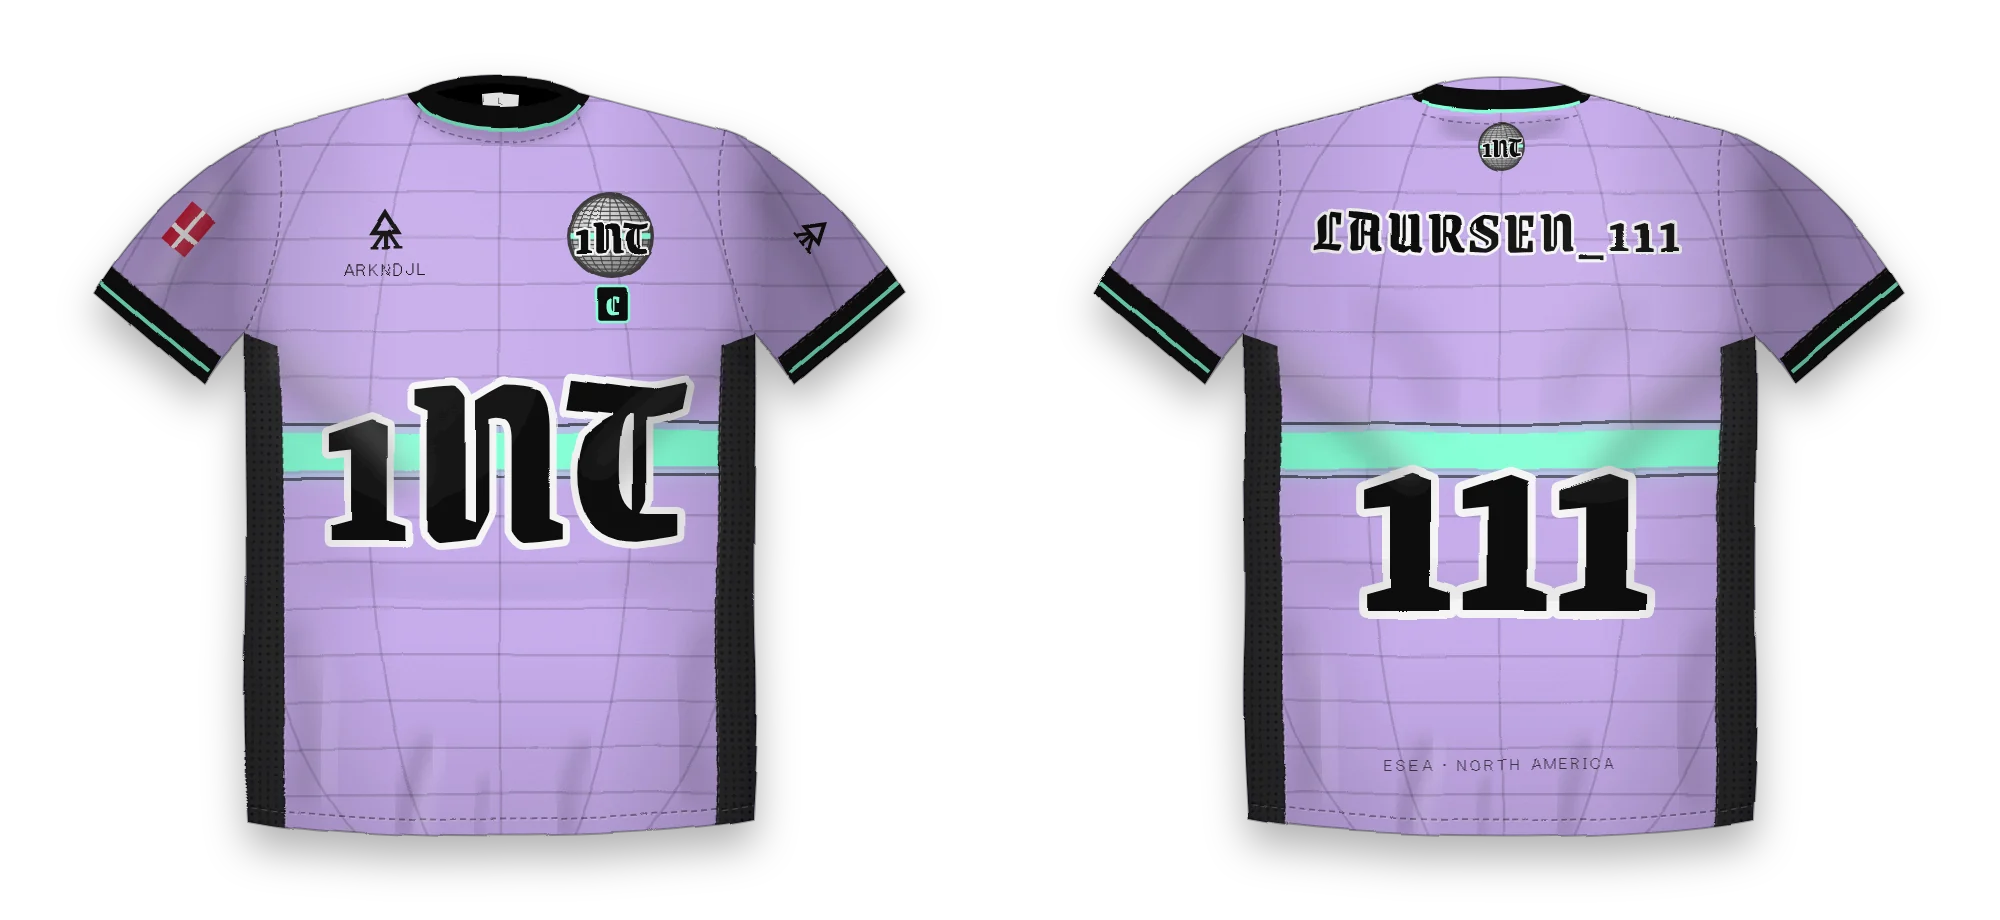
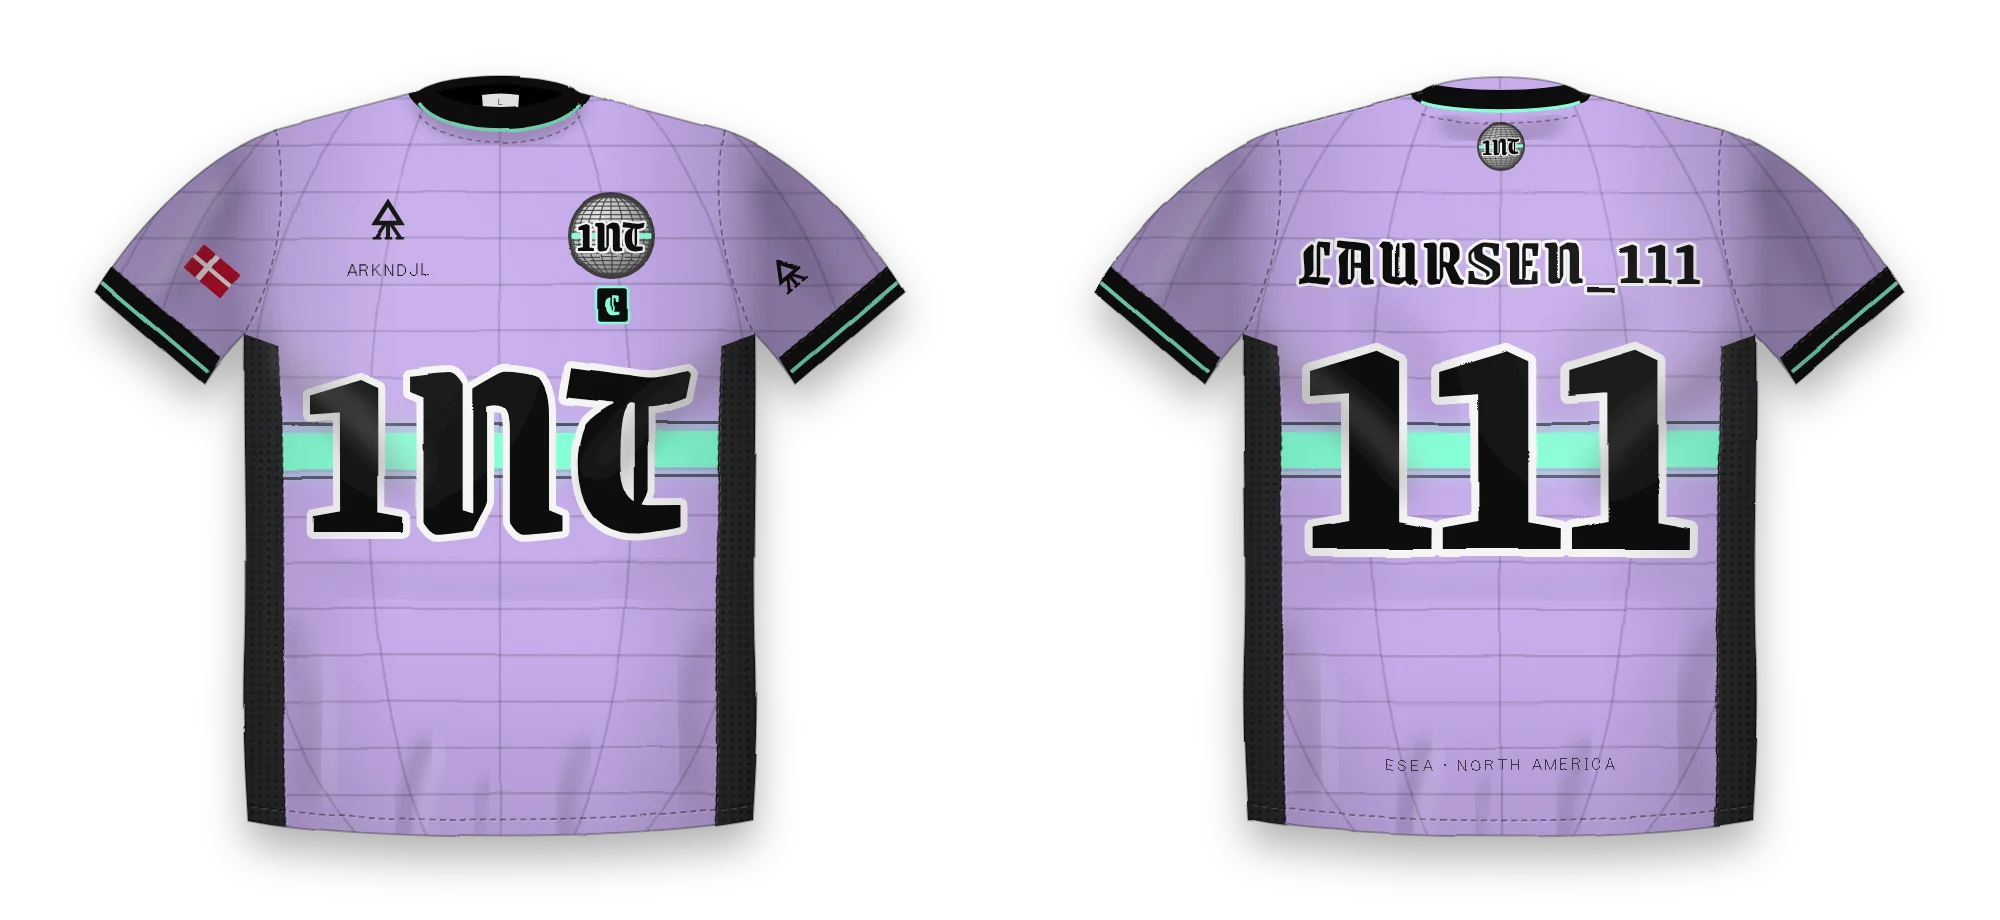
1NT kit: centre and place elements like real jerseys (#486)
Grenze Gotisch text is now placed from its outlines (optical centre, lining
figures): wordmark and back number centred on the band, nameplate on the spine.
Crest and sponsor mirror each other about the centre line at the same height;
sleeve patches sit at each sleeve's centre, level with the cuff; less fabric
warp so centred marks stay centred. Anatomy pins and specs follow.

Claude-Session: https://claude.ai/code/session_01HcDrTf4yWcwj9oYhxx6sEJ

diff --git a/layouts/shortcodes/kitguide1nt.html b/layouts/shortcodes/kitguide1nt.html
@@ -35,7 +35,7 @@
 .kg-bar{display:flex;height:22px;margin:.9rem 0 .3rem;border:1px solid var(--kg-rule)}
 .kg-bar span{display:block;height:100%}
 .kg-note{font-size:.8rem;color:var(--kg-mute)}
-.kg-type{font-family:"Grenze Gotisch",serif;font-weight:800;color:var(--kg-ink);line-height:1}
+.kg-type{font-family:"Grenze Gotisch",serif;font-weight:800;color:var(--kg-ink);line-height:1;font-feature-settings:"lnum"}
 .kg-type--tag{font-weight:700;font-size:clamp(1.8rem,7vw,2.8rem);letter-spacing:.06em;-webkit-text-stroke:0;text-shadow:0 0 0 #fff}
 .kg-type--num{font-size:clamp(3.4rem,15vw,6rem);letter-spacing:-.03em}
 .kg-rim{paint-order:stroke fill;-webkit-text-stroke:6px #fff;text-stroke:6px #fff}
@@ -124,8 +124,8 @@
     <div>
       <p><b>Grenze Gotisch</b> (OFL), a clean gothic: broken strokes without blackletter clutter, so a gamertag stays legible across the shoulders.</p>
       <table class="kg-spec">
-        <tr><th>Gamertag</th><td>weight 700, tracking +3%, cap height 7 cm, centred 13 cm below the collar. Set as written, case and underscores kept.</td></tr>
-        <tr><th>Number</th><td>weight 800, 25 cm tall, tracking -2%, sits on the equator band so the band passes behind it.</td></tr>
+        <tr><th>Gamertag</th><td>weight 700, tracking +3%, cap height 5 cm, centred on the spine 17 cm below the collar, at most 42 cm wide. Set as written, case and underscores kept.</td></tr>
+        <tr><th>Number</th><td>weight 800, lining figures, 25 cm tall, tracking -2%, centred on the spine and on the equator band so the band passes behind its middle.</td></tr>
         <tr><th>Rim</th><td>every letter and number gets a rim in the opposite neutral (white on light kits' black letters, black on away), 5% of the glyph height.</td></tr>
         <tr><th>Small text</th><td>sponsor and league lines in the site's pixel font, tracked wide.</td></tr>
       </table>
@@ -138,22 +138,22 @@
   <p class="kg-kick">04</p><h2 class="kg-h">Anatomy</h2>
   <div class="kg-anat">
     <img class="kg-img" src="{{ printf "%s1nt-kit-anatomy.webp" $img | relURL }}" width="1000" height="920" alt="home jersey front with numbered callouts" loading="lazy">
-    {{- range (slice (slice 1 50 9) (slice 2 61.2 25.7) (slice 3 38.5 26) (slice 4 61.2 33.3) (slice 5 50 52) (slice 6 72 49) (slice 7 50 75) (slice 8 26.5 66) (slice 9 15 36) (slice 10 19 25) (slice 11 81 25.5)) }}
+    {{- range (slice (slice 1 50 9) (slice 2 61.2 25.7) (slice 3 38.8 25.7) (slice 4 61.2 33.3) (slice 5 50 49) (slice 6 73 49) (slice 7 50 75) (slice 8 26.5 66) (slice 9 15.2 36.5) (slice 10 21.3 29.6) (slice 11 78.7 29.6)) }}
     <span class="kg-pin" style="left:{{ index . 1 }}%;top:{{ index . 2 }}%">{{ index . 0 }}</span>
     {{- end }}
   </div>
   <ol class="kg-ol">
     <li>Rib crew collar, 2.2 cm, ink, with a 3 mm lilac tipping line and a printed neck label.</li>
-    <li>Crest, wearer's left chest, 9 cm.</li>
-    <li>Sponsor: the ARKNDJL glyph and wordmark, wearer's right chest.</li>
+    <li>Crest, wearer's left chest, 9 cm, 11 cm off the centre line.</li>
+    <li>Sponsor: the ARKNDJL glyph and wordmark, wearer's right chest, mirroring the crest's height and offset.</li>
     <li>Captain mark, a C in a lilac-edged tab, under the crest (captain only).</li>
-    <li>1NT wordmark across the chest, 25 cm wide, centred on the band.</li>
+    <li>1NT wordmark, centred on the chest and on the band, 18 cm tall.</li>
     <li>Equator band, 3.6 cm, full width, with 3 mm ink pinlines above and below.</li>
     <li>Wireframe globe, sublimated over the whole body at 13% (home) to 30% (away).</li>
     <li>Steel mesh side panels from armpit to hem, for airflow under headset-length sessions.</li>
     <li>Ink cuffs with tipping, set-in short sleeves.</li>
-    <li>Player flag, wearer's right sleeve.</li>
-    <li>ARKNDJL glyph, wearer's left sleeve.</li>
+    <li>Player flag, centred on the wearer's right sleeve and level with the cuff.</li>
+    <li>ARKNDJL glyph, centred on the wearer's left sleeve, level with the cuff.</li>
   </ol>
   <table class="kg-spec">
     <tr><th>Fabric</th><td>140 gsm sublimated polyester interlock; mesh side panels; rib collar and cuffs.</td></tr>

diff --git a/scripts/jersey_1nt.py b/scripts/jersey_1nt.py
@@ -64,6 +64,10 @@ CUFF_L = "M 83 313 L 191 405 L 220 358 L 112 266 Z"
 CUFF_SEAM_L, TIP_L = "M 112 266 L 220 358", "M 102 282 L 208 372"
 SHOULDER_L = "M 420 92 L 276 130"
 ARM_R, PANEL_R, SEAM_R, CUFF_R, CUFF_SEAM_R, TIP_R, SHOULDER_R = map(mirror, (ARM_L, PANEL_L, SEAM_L, CUFF_L, CUFF_SEAM_L, TIP_L, SHOULDER_L))
+# chest marks and sleeve patches (see jersey()): the sleeve centre is the middle of the armhole seam, armpit,
+# cuff seam quad; its cuff runs at atan2(92, 108) = 40.4 degrees
+CHEST_DX, CHEST_Y = 112, 236
+SLEEVE_X, SLEEVE_Y, SLEEVE_A = 213, 272, 40.4
 HEM = "M 250 804 C 360 826, 640 826, 750 804"
 
 # soft folds: (path, width, blur, opacity); highlights run beside them
@@ -98,6 +102,51 @@ def grid(cx, cy, r, color, op, width=2.4):
     return "".join(out)
 
 
+_FONTS = {}
+
+
+def ink(text, weight):
+    """Ink box of text in Grenze Gotisch at 1 em, lining figures: (advance per glyph list, left, right, bottom, top)."""
+    if weight not in _FONTS:
+        from fontTools.ttLib import TTFont
+        from fontTools.varLib import instancer
+        f = instancer.instantiateVariableFont(TTFont(FONT), {"wght": weight})
+        _FONTS[weight] = (f.getGlyphSet(), f.getBestCmap(), f["head"].unitsPerEm)
+    from fontTools.pens.boundsPen import BoundsPen
+    gs, cmap, upm = _FONTS[weight]
+    out = []
+    for ch in text:
+        name = cmap[ord(ch)]
+        if ch.isdigit() and name + ".lf" in gs:
+            name += ".lf"
+        bp = BoundsPen(gs); gs[name].draw(bp)
+        out.append((gs[name].width / upm, bp.bounds and [v / upm for v in bp.bounds]))
+    return out
+
+
+def gothic(text, cx, cy, height, weight, fill, rim=None, sw=0, spacing=0.0, maxw=None):
+    """Text in Grenze Gotisch whose ink box is centred on (cx, cy) with the given ink height (caps and lining
+    figures), shrunk to maxw. Positioned from the outlines, so it is optically centred whatever the anchor rules."""
+    g = ink(text, weight)
+    def box(size):
+        x, xs, ys = 0.0, [], []
+        for i, (adv, b) in enumerate(g):
+            if b:
+                xs += [x + b[0] * size, x + b[2] * size]; ys += [b[1] * size, b[3] * size]
+            x += adv * size + (spacing * size if i < len(g) - 1 else 0)
+        return min(xs), max(xs), min(ys), max(ys)
+    l, r, bot, top = box(1.0)
+    size = height / (top - max(bot, 0))
+    if maxw and (r - l) * size > maxw:
+        size = maxw / (r - l)
+    l, r, bot, top = box(size)
+    x0 = cx - (l + r) / 2
+    base = cy + (top + max(bot, 0)) / 2
+    st = f' stroke="{rim}" stroke-width="{sw}" paint-order="stroke" stroke-linejoin="round"' if rim else ""
+    return (f'<text x="{x0:.1f}" y="{base:.1f}" font-family="Grenze Gotisch" font-weight="{weight}" font-size="{size:.1f}" '
+            f'letter-spacing="{spacing * size:.2f}" style="font-feature-settings:\'lnum\'" fill="{fill}"{st}>{text}</text>')
+
+
 def crest(cx, cy, r, band=LILAC, uid="c"):
     """1NT crest: shaded wireframe globe, glowing equator, tall 1NT in Grenze Gotisch with a light rim."""
     s = r / 50
@@ -108,9 +157,7 @@ def crest(cx, cy, r, band=LILAC, uid="c"):
             f'<circle r="50" fill="{STEEL}"/><circle r="46" fill="url(#cg{uid})"/>'
             f'<g clip-path="url(#cc{uid})">{grid(0, 0, 46, "#3e3e3e", .9, 1.4)}'
             f'<rect x="-50" y="-3.2" width="100" height="6.4" fill="{band}"/></g>'
-            f'<text y="20" text-anchor="middle" font-family="Grenze Gotisch" font-weight="800" font-size="58" '
-            f'letter-spacing="-1" fill="{INK}" stroke="{WHITE}" stroke-width="5" paint-order="stroke" '
-            f'stroke-linejoin="round">1NT</text></g>')
+            + gothic("1NT", 0, 0, 42, 800, INK, WHITE, 5, -.02, maxw=76) + "</g>")
 
 
 def glyph(x, y, size, color):
@@ -152,7 +199,7 @@ def jersey(kit, side, player=None, uid="j"):
  <stop offset=".7" stop-color="#000" stop-opacity=".0"/><stop offset="1" stop-color="#000" stop-opacity=".16"/></linearGradient>
 <filter id="w{u}" x="-5%" y="-5%" width="110%" height="110%">
  <feTurbulence type="fractalNoise" baseFrequency=".0055" numOctaves="2" seed="{7 if side == 'front' else 11}" result="n"/>
- <feDisplacementMap in="SourceGraphic" in2="n" scale="10" xChannelSelector="R" yChannelSelector="G"/></filter>
+ <feDisplacementMap in="SourceGraphic" in2="n" scale="6" xChannelSelector="R" yChannelSelector="G"/></filter>
 <filter id="t{u}" x="0" y="0" width="100%" height="100%">
  <feTurbulence type="fractalNoise" baseFrequency=".85" numOctaves="2" seed="4" result="t"/>
  <feColorMatrix in="t" type="saturate" values="0"/><feComponentTransfer><feFuncA type="linear" slope="0" intercept="1"/></feComponentTransfer>
@@ -174,24 +221,26 @@ def jersey(kit, side, player=None, uid="j"):
     p.append(f'<rect x="100" y="432" width="800" height="36" fill="{k["band"]}"/>')
     p.append(f'<rect x="100" y="422" width="800" height="3" fill="{k["ink"]}" opacity=".55"/><rect x="100" y="475" width="800" height="3" fill="{k["ink"]}" opacity=".55"/>')
     if side == "front":
-        p.append(f'<text x="500" y="540" text-anchor="middle" font-family="Grenze Gotisch" font-weight="800" font-size="250" '
-                 f'letter-spacing="-4" fill="{k["ink"]}" stroke="{k["rim"]}" stroke-width="14" paint-order="stroke" stroke-linejoin="round">1NT</text>')
-        p.append(crest(612, 236, 44, k["band"], u))
-        p.append(glyph(362, 206, 46, k["ink"]))
-        p.append(f'<text x="385" y="276" text-anchor="middle" font-family="MS PGothic Pixel" font-size="17" letter-spacing="2" fill="{k["ink"]}">ARKNDJL</text>')
-        if cap:
-            p.append(f'<g transform="translate(612 306)"><rect x="-16" y="-18" width="32" height="36" rx="4" fill="{k["trim"]}" stroke="{k["band"]}" stroke-width="2.5"/>'
-                     f'<text y="11" text-anchor="middle" font-family="Grenze Gotisch" font-weight="800" font-size="30" fill="{k["band"]}">C</text></g>')
-        p.append(f'<g transform="rotate(-50 190 230)">{flag(fl, 166, 214, 48)}</g>')
-        p.append(f'<g transform="rotate(50 812 234)">{glyph(794, 212, 38, k["ink"])}</g>')
+        # chest: wordmark centred on the band; crest (wearer's left) and sponsor (right) mirrored about the centre
+        # line at the same height, 11 cm out and 13 cm under the shoulder seam, like a club crest and kit-maker mark
+        p.append(gothic("1NT", 500, 450, 172, 800, k["ink"], k["rim"], 14, -.015, maxw=380))
+        p.append(crest(500 + CHEST_DX, CHEST_Y, 44, k["band"], u))
+        p.append(glyph(500 - CHEST_DX - 23, CHEST_Y - 40, 46, k["ink"]))
+        # +1: half the trailing letter-spacing, which text-anchor counts as part of the run
+        p.append(f'<text x="{500 - CHEST_DX + 1}" y="{CHEST_Y + 40}" text-anchor="middle" font-family="MS PGothic Pixel" font-size="17" letter-spacing="2" '
+                 f'fill="{k["ink"]}">ARKNDJL</text>')
+        if cap:  # captain tab on the crest's centre line, under it
+            p.append(f'<g transform="translate({500 + CHEST_DX} {CHEST_Y + 70})"><rect x="-16" y="-18" width="32" height="36" rx="4" fill="{k["trim"]}" stroke="{k["band"]}" stroke-width="2.5"/>'
+                     + gothic("C", 0, 0, 20, 800, k["band"]) + "</g>")
+        # sleeve patches: centred on each sleeve, level with the cuff (so upright when the arm hangs)
+        p.append(f'<g transform="translate({SLEEVE_X} {SLEEVE_Y}) rotate({SLEEVE_A})">{flag(fl, -24, -16, 48)}</g>')
+        p.append(f'<g transform="translate({1000 - SLEEVE_X} {SLEEVE_Y}) rotate({-SLEEVE_A})">{glyph(-19, -19, 38, k["ink"])}</g>')
     else:
-        size = 78 if len(tag) <= 7 else 68 if len(tag) <= 9 else 60
-        p.append(f'<text x="500" y="250" text-anchor="middle" font-family="Grenze Gotisch" font-weight="700" font-size="{size}" '
-                 f'letter-spacing="3" fill="{k["ink"]}" stroke="{k["rim"]}" stroke-width="6" paint-order="stroke" stroke-linejoin="round">{tag}</text>')
-        p.append(f'<text x="500" y="610" text-anchor="middle" font-family="Grenze Gotisch" font-weight="800" font-size="{330 if len(num) < 3 else 280}" '
-                 f'letter-spacing="-6" fill="{k["ink"]}" stroke="{k["rim"]}" stroke-width="16" paint-order="stroke" stroke-linejoin="round">{num}</text>')
+        # back: number centred on the band, nameplate centred above it, both on the centre line
+        p.append(gothic(tag, 500, 262, 50, 700, k["ink"], k["rim"], 6, .03, maxw=400))
+        p.append(gothic(num, 500, 450, 236, 800, k["ink"], k["rim"], 16, -.02, maxw=380))
         p.append(crest(500, 146, 24, k["band"], u + "n"))
-        p.append(f'<text x="500" y="770" text-anchor="middle" font-family="MS PGothic Pixel" font-size="16" letter-spacing="3" fill="{k["ink"]}" opacity=".7">ESEA · NORTH AMERICA</text>')
+        p.append(f'<text x="501.5" y="770" text-anchor="middle" font-family="MS PGothic Pixel" font-size="16" letter-spacing="3" fill="{k["ink"]}" opacity=".7">ESEA · NORTH AMERICA</text>')
 
     # construction: panels, cuffs, collar
     c = []
